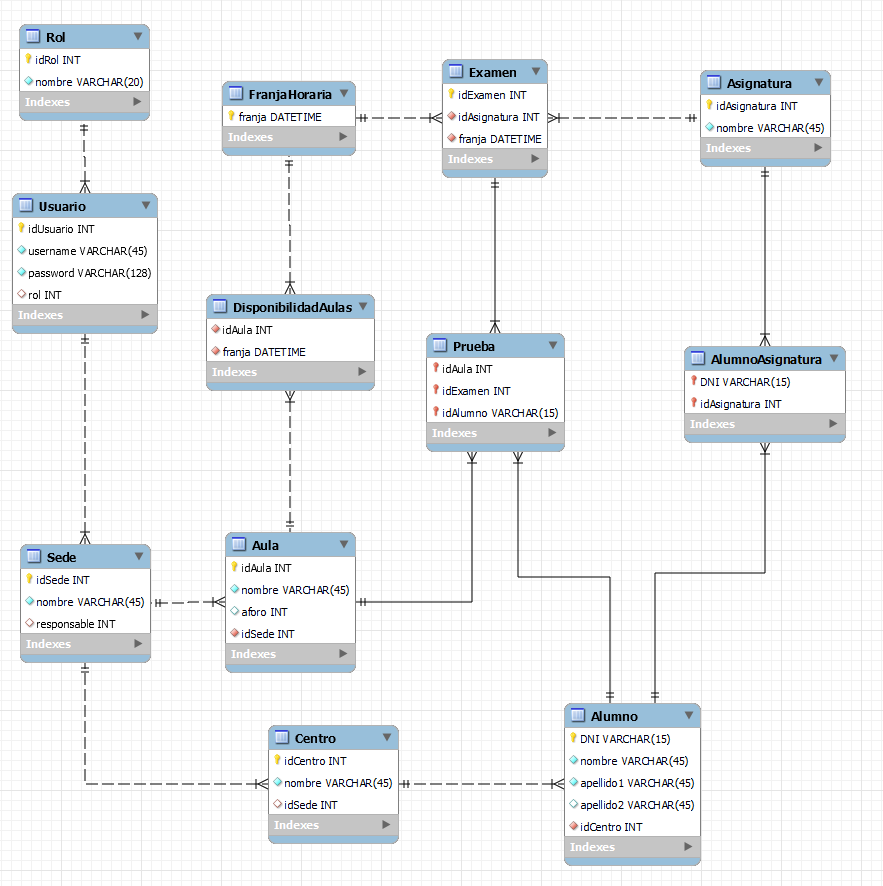
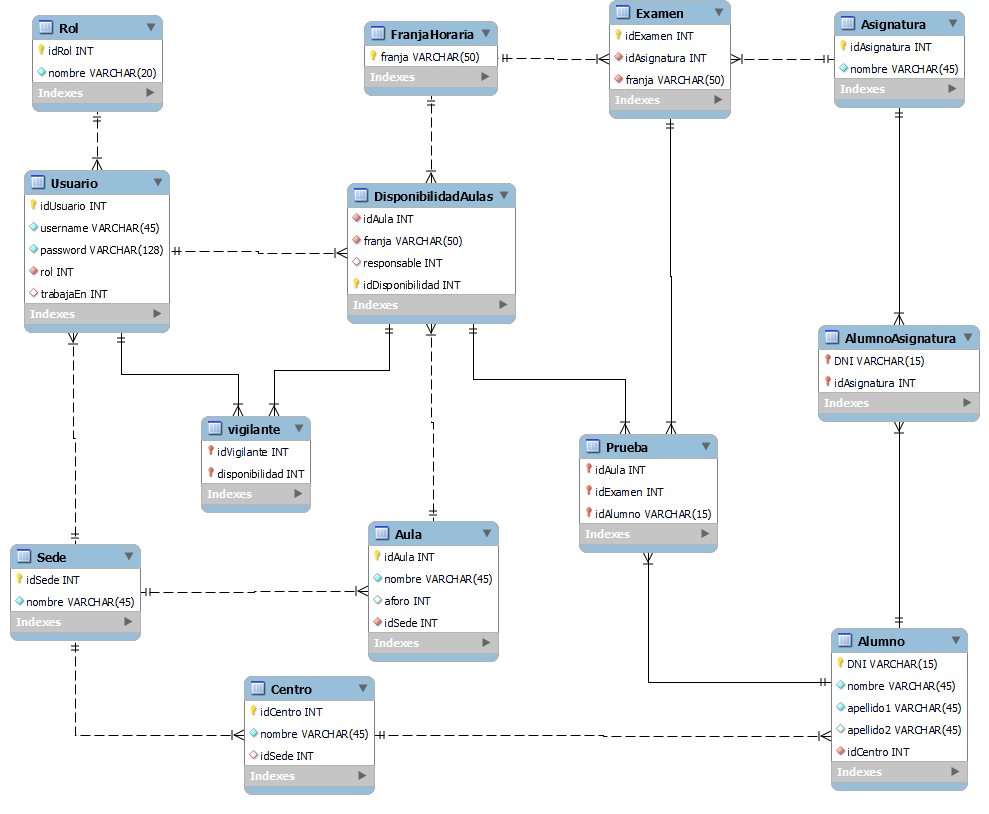
cambios en DB

diff --git a/WindowsFormsApplication1/EstudianteTab.cs b/WindowsFormsApplication1/EstudianteTab.cs
@@ -29,7 +29,7 @@ namespace WindowsFormsApplication1
             var fileContent = string.Empty;
             var filePath = string.Empty;
 
- //           Dictionary<string, int> asignaturas = Asignatura.AsignaturasDiccionario();
+            Dictionary<string, int> asignaturas = Asignatura.AsignaturasDiccionario();
             Dictionary<string, int> centros = Centro.CentrosDiccionario();
 
             using (OpenFileDialog openFileDialog = new OpenFileDialog())
@@ -103,14 +103,13 @@ namespace WindowsFormsApplication1
                                     apellido2 = (attributes[3].Equals("0")) ? "" : attributes[3];
                                     dni_nif = attributes[4];
                                     materias = attributes[5].Split(',');
- //                                   Dictionary<string, int> examenes = new Dictionary<string, int>();
+                                    int[] mat = new int[materias.Length];
                                     for (int m = 0; m < materias.Length; m++)
                                     {
                                         materias[m] = materias[m].Trim();
-//                                        int id = asignaturas[materias[m]]; // Lanza una excepción en caso si la materia no está en la base de datos.
-//                                        examenes[materias[m]] = id;
+                                        mat[m] = asignaturas[materias[m]]; // Lanza una excepción en caso si la materia no está en la base de datos.
                                     }
-                                    query.Append(BuildQuery(idCentro, nombre, apellido1, apellido2, dni_nif, materias));
+                                    query.Append(BuildQuery(idCentro, nombre, apellido1, apellido2, dni_nif, mat));
                                     cnt++;
                                     if (cnt >= 500)
                                     {
@@ -143,14 +142,14 @@ namespace WindowsFormsApplication1
             }
         }
 
-        private string BuildQuery(int idCentro, string nombre, string apellido1, string apellido2, string dni_nif, string[] materias)
+        private string BuildQuery(int idCentro, string nombre, string apellido1, string apellido2, string dni_nif, int[] materias)
         {
             string ins = "Insert IGNORE into Alumno(idCentro, DNI, nombre, apellido1, apellido2) VALUES ('" + idCentro + "', '" + dni_nif + "',' " + nombre + "', '" + apellido1 + "', '" + apellido2 + "');\n";
             ins += "insert IGNORE into AlumnoAsignatura (DNI, idAsignatura) values";
             string[] subq = new string[materias.Length];
             for (int i = 0; i < materias.Length; i++)
             {
-                subq[i] = "('" + dni_nif + "', (select idAsignatura from Asignatura where nombre = '" + materias[i] + "')) ";
+                subq[i] = "('" + dni_nif + "', " + materias[i] + ") ";
             }
             ins += String.Join(",", subq) + ";\n";
             return ins;
@@ -190,8 +189,7 @@ namespace WindowsFormsApplication1
         /* Borra todos los estudiantes de la base de datos*/
         private void bEliminarTodosLosEstudiantes_Click(object sender, EventArgs e)
         {
-            foreach (var estudiante in Alumno.ListaAlumno())
-                estudiante.borrarAlumno();
+            Alumno.BorrarTodos();
             MostrarAlumnos();
         }
 

diff --git a/WindowsFormsApplication1/Alumno.cs b/WindowsFormsApplication1/Alumno.cs
@@ -121,7 +121,14 @@ namespace WindowsFormsApplication1
             apellido1 = null;
             apellido2 = null;
         }
-
+internal static void BorrarTodos()
+        {
+            String del;
+            del = "SET sql_safe_updates = 0;\n" +
+                "delete from Alumno;\n" +
+                "SET sql_safe_updates = 1;";
+            miBD.Delete(del);
+        }
         public override string ToString()
         {
             string res = this.nombre + ";" + this.apellido1 + ";";
@@ -146,7 +153,5 @@ namespace WindowsFormsApplication1
             return lista;
 
         }
-
-
     }
 }

diff --git a/WindowsFormsApplication1/Asignatura.cs b/WindowsFormsApplication1/Asignatura.cs
@@ -86,7 +86,7 @@ namespace WindowsFormsApplication1
         
         // TODO: Remove if not used;
         
-        /*
+        
         /// <summary>
         /// Devuelve un diccionario con el nombre de asignatura como clave y su identificador como valor
         /// </summary>
@@ -100,7 +100,7 @@ namespace WindowsFormsApplication1
             }
             return ret;
         }
-        */
+        
         public int IdAsignatura
         {
             get { return idAsignatura; }
